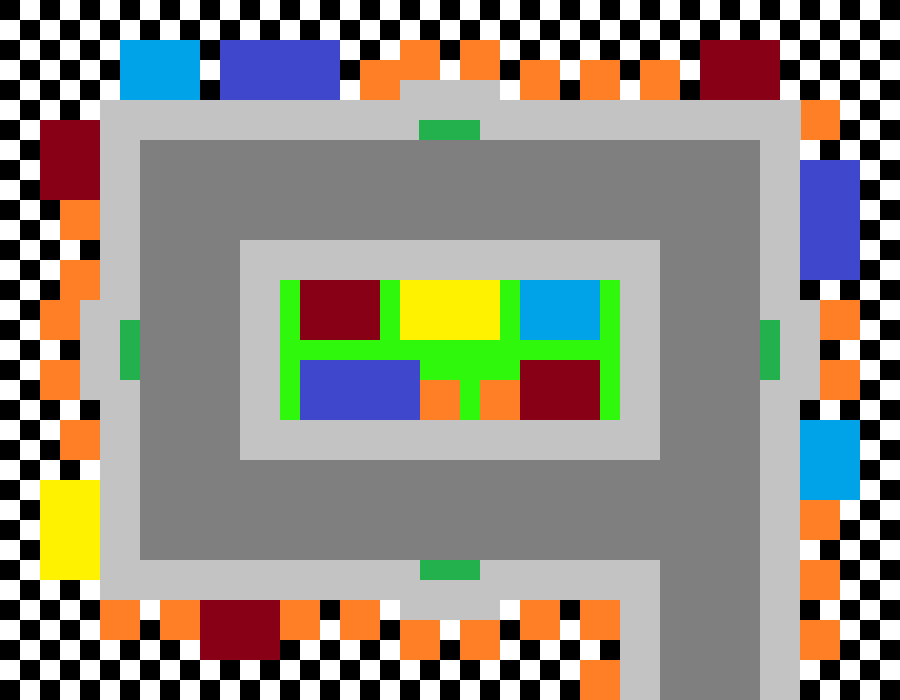
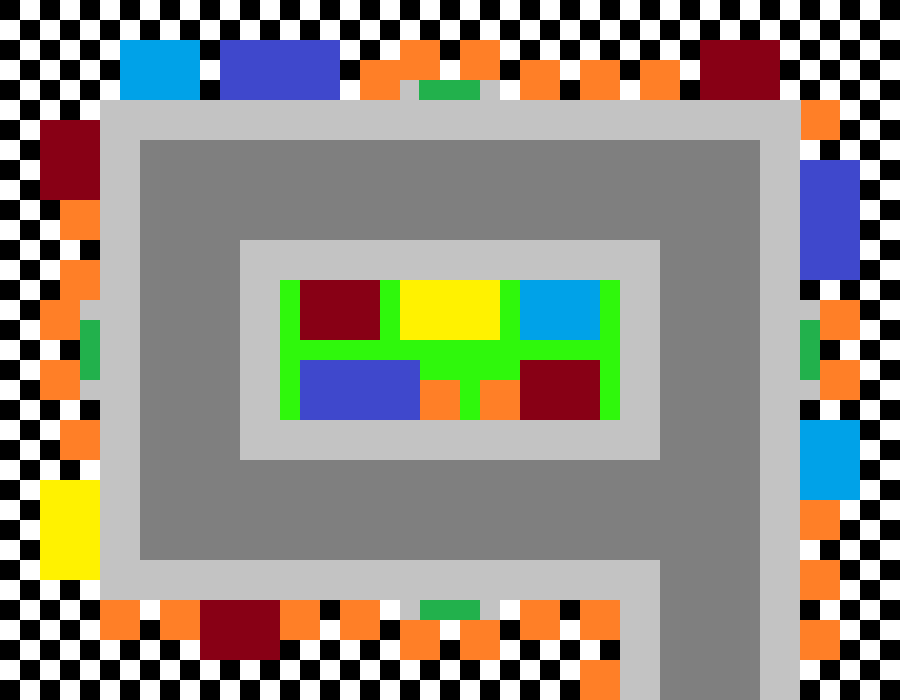
Changed personGui drawing code and made minor changes to background picture (moved bus stops)

diff --git a/src/city/gui/PersonGui.java b/src/city/gui/PersonGui.java
@@ -70,9 +70,7 @@ public class PersonGui implements Gui {
 	
 	@Override
 	public void draw(Graphics2D g) {
-		g.setColor(Color.YELLOW);
-		g.fillRect(xPos, yPos, 20, 20);
-        //g.drawImage(icon.getImage(), xPos, yPos, animPanel);
+        g.drawImage(icon.getImage(), xPos, yPos, animPanel);
 	}
 
 	@Override
